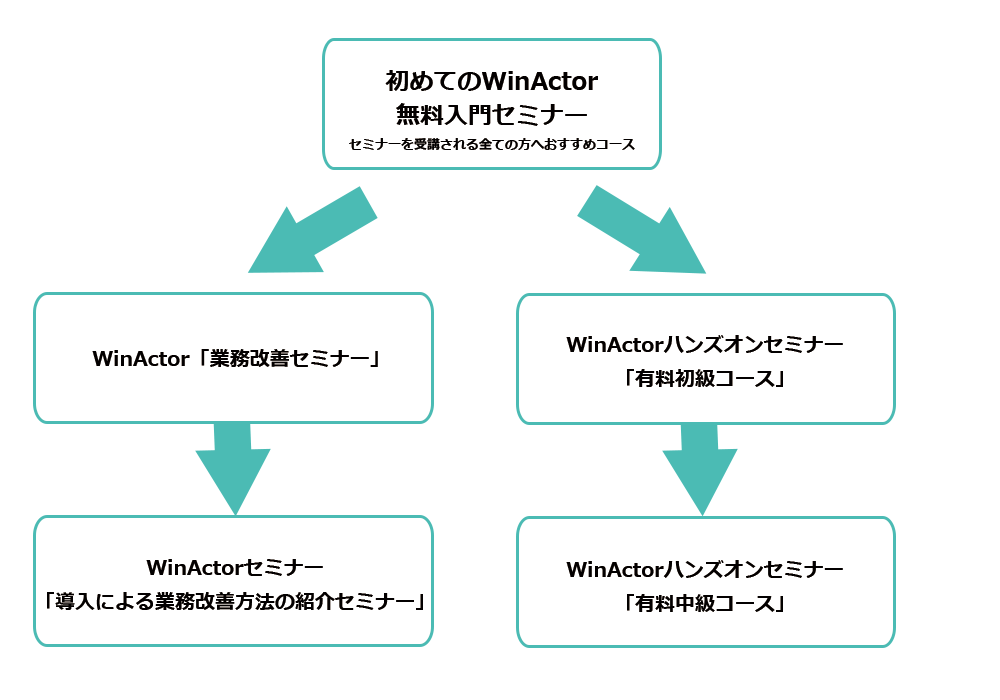
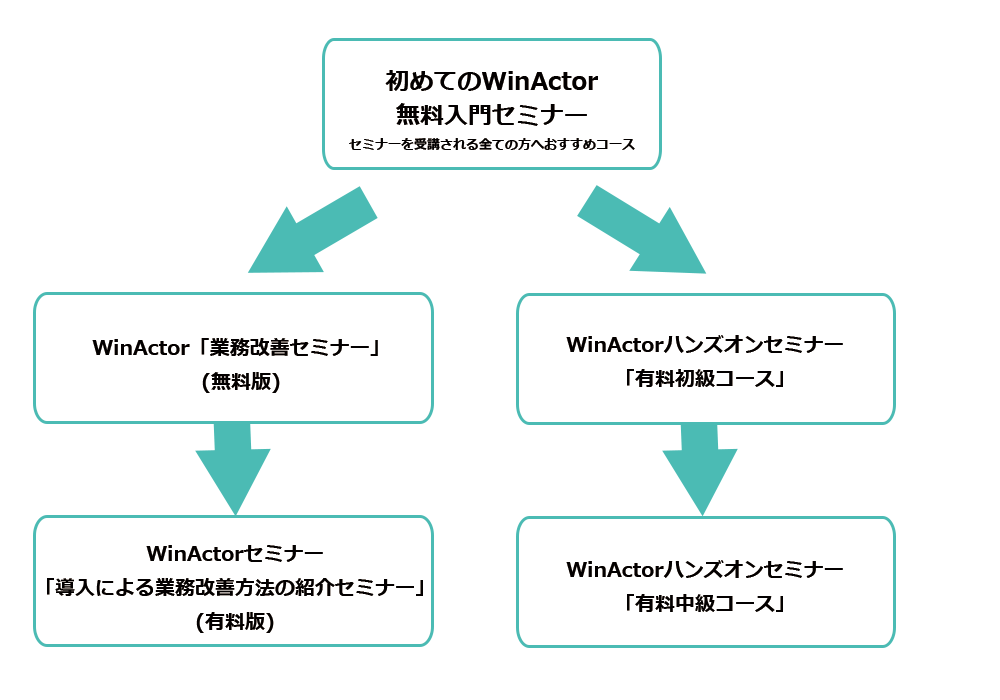
セミナー名変更、PC貸出要否項目の追加

Changed region(s): [[0.031, 0.78, 0.434, 0.9], [0.093, 0.48, 0.372, 0.57]]

diff --git a/src/winactor/form/seminar_form/index.html b/src/winactor/form/seminar_form/index.html
@@ -31,8 +31,14 @@ title:      "WinActorセミナーお申込み"
                   </div>
                   <div class="cell-sm-6">
                     <div class="form-wrap form-wrap-validation">
-                      <label class="form-label-outside" for="form-1-name">参加者名</label>
-                      <input class="form-input" id="form-1-name" type="text" name="name" data-constraints="@Required"/ required>
+                      <label class="form-label-outside" for="form-1-name1">姓</label>
+                      <input class="form-input" id="form-1-name1" type="text" name="name1" data-constraints="@Required"/ required>
+                    </div>
+                  </div>
+                  <div class="cell-sm-6">
+                    <div class="form-wrap form-wrap-validation">
+                      <label class="form-label-outside" for="form-1-name2">名</label>
+                      <input class="form-input" id="form-1-name2" type="text" name="name2" data-constraints="@Required"/ required>
                     </div>
                   </div>
                   <div class="cell-sm-6">
@@ -81,10 +87,10 @@ title:      "WinActorセミナーお申込み"
 		                  <!--<option value="2018年5月29日(火)　自動化ツール導入による業務改善方法紹介セミナー 無償版">2018年5月29日(火)　自動化ツール導入による業務改善方法紹介セミナー 無償版</option>-->
 		                  <!--<option value="2018年5月31日(木)　自動化ツール導入による業務改善方法紹介セミナー 有償実践版">2018年5月31日(木)　自動化ツール導入による業務改善方法紹介セミナー 有償実践版</option>-->
 		                  <!--<option value="2018年6月5日(火)　無償入門コース">2018年6月5日(火)　無償入門コース</option>-->
-		                  <option value="2018年6月14日(木)　WinActorセミナー「導入による業務改善方法紹介のセミナー」">2018年6月14日(木)　WinActorセミナー「導入による業務改善方法紹介のセミナー」</option>
+		                  <option value="2018年6月14日(木)　WinActorセミナー「導入による業務改善方法紹介のセミナー」(有料版)">2018年6月14日(木)　WinActorセミナー「導入による業務改善方法紹介のセミナー」(有料版)</option>
 		                  <!--<option value="2018年6月19日(火)　初めてのWinActor無料入門セミナー">2018年6月19日(火)　初めてのWinActor無料入門セミナー</option>-->
 		                  <option value="2018年6月21日(木)　WinActorハンズオンセミナー「有料初級コース」">2018年6月21日(木)　WinActorハンズオンセミナー「有料初級コース」</option>
-		                  <option value="2018年6月26日(火)　WinActor「業務改善セミナー」">2018年6月26日(火)　WinActor「業務改善セミナー」</option>
+		                  <option value="2018年6月26日(火)　WinActor「業務改善セミナー」(無料版)">2018年6月26日(火)　WinActor「業務改善セミナー」(無料版)</option>
 		                  <option value="2018年6月28日(木)　初めてのWinActor無料入門セミナー">2018年6月28日(木)　初めてのWinActor無料入門セミナー</option>
 		                </select>
 		              </div>
@@ -106,7 +112,16 @@ title:      "WinActorセミナーお申込み"
                       <label class="form-label-outside" for="form-1-other">その他を選択された方</label>
                       <input class="form-input" id="form-1-other" type="text" name="other" placeholder="その他：セミナーを知ったきっかけ" />
                     </div>            
-                  </div>		            
+                  </div>
+		          <div class="cell-sm-6">
+		            <div class="form-wrap form-wrap-validation">
+		                <label class="form-label-outside" for="form-1-pc">PCの貸出</label>
+		                <select class="form-control select-filter" data-placeholder="All" data-minimum-results-for-search="Infinity" name="pc" required>
+		                  <option value="希望しない">希望しない</option>
+		                  <option value="希望する">希望する</option>	                  
+		                </select>
+		              </div>
+		            </div> 	
                   <div class="cell-xs-12">
                     <div class="form-wrap form-wrap-validation">
                       <label class="form-label-outside" for="form-1-message">特記事項</label>

diff --git a/src/winactor/seminar/paying-businessimprovement.html b/src/winactor/seminar/paying-businessimprovement.html
@@ -9,7 +9,7 @@ title:      "WinActor有料セミナー「WinActor導入による業務改善方
       <!-- Breadcrumbs-->
       <section class="breadcrumbs-custom bg-image">
         <div class="shell">
-          <h1 class="heading-1 breadcrumbs-custom-title">WinActorセミナー「導入による業務改善方法の紹介セミナー」</h1>
+          <h1 class="heading-1 breadcrumbs-custom-title">WinActorセミナー「導入による業務改善方法の紹介セミナー」(有料版)</h1>
           <!--<ul class="breadcrumbs-custom-path">
             <li><a href="index.html">Home</a></li>
             <li><a href="#">Pages</a></li>
@@ -89,7 +89,7 @@ title:      "WinActor有料セミナー「WinActor導入による業務改善方
         <div class="center-shell">
           <div class="range range-xs-center">
             <div class="cell-sm-10 cell-lg-8">
-              <h2>WinActorセミナー「導入による業務改善方法の紹介セミナー」の内容</h2>
+              <h2>WinActorセミナー「導入による業務改善方法の紹介セミナー」(有料版)の内容</h2>
               <div class="table-novi table-custom-responsive">
                 <table class="table-custom table-color-header">
                   <thead>
@@ -205,7 +205,7 @@ title:      "WinActor有料セミナー「WinActor導入による業務改善方
             <div class="cell-sm-6 cell-lg-3">
               <div class="pricing-box pricing-box-xl pricing-box-novi">
                 <div class="pricing-box-header">
-                  <h4>WinActor「業務改善セミナー」</h4>
+                  <h4>WinActor「業務改善セミナー」(無料版)</h4>
                 </div>
                 <div class="pricing-box-price">
                   <div class="heading-2">無償</div>

diff --git a/src/winactor/seminar/free-businessimprovement.html b/src/winactor/seminar/free-businessimprovement.html
@@ -9,7 +9,7 @@ title:      "WinActor無償セミナー「WinActor導入による業務改善セ
       <!-- Breadcrumbs-->
       <section class="breadcrumbs-custom bg-image">
         <div class="shell">
-          <h1 class="heading-1 breadcrumbs-custom-title">WinActor「業務改善セミナー」</h1>
+          <h1 class="heading-1 breadcrumbs-custom-title">WinActor「業務改善セミナー」(無料版)</h1>
           <!--<ul class="breadcrumbs-custom-path">
             <li><a href="index.html">Home</a></li>
             <li><a href="#">Pages</a></li>
@@ -83,7 +83,7 @@ title:      "WinActor無償セミナー「WinActor導入による業務改善セ
         <div class="center-shell">
           <div class="range range-xs-center">
             <div class="cell-sm-10 cell-lg-8">
-              <h2>WinActor「業務改善セミナー」の内容</h2>
+              <h2>WinActor「業務改善セミナー」(無料版)の内容</h2>
               <div class="table-novi table-custom-responsive">
                 <table class="table-custom table-color-header">
                   <thead>
@@ -195,7 +195,7 @@ title:      "WinActor無償セミナー「WinActor導入による業務改善セ
             <div class="cell-sm-6 cell-lg-3">
               <div class="pricing-box pricing-box-xl pricing-box-novi">
                 <div class="pricing-box-header">
-                  <h4>WinActorセミナー「導入による業務改善方法の紹介セミナー」</h4>
+                  <h4>WinActorセミナー「導入による業務改善方法の紹介セミナー」(有料版)</h4>
                 </div>
                 <div class="pricing-box-price">
                   <div class="heading-2"><strike>100,000 円 / 人</strike></div>

diff --git a/src/winactor/seminar/free-gettingstarted.html b/src/winactor/seminar/free-gettingstarted.html
@@ -178,7 +178,7 @@ title:      "WinActor無料セミナー「初めてのWinActor入門セミナー
             <div class="cell-sm-6 cell-lg-3">
               <div class="pricing-box pricing-box-xl pricing-box-novi">
                 <div class="pricing-box-header">
-                  <h4>WinActor「業務改善セミナー」</h4>
+                  <h4>WinActor「業務改善セミナー」(無料版)</h4>
                 </div>
                 <div class="pricing-box-price">
                   <div class="heading-2">無償</div>
@@ -200,7 +200,7 @@ title:      "WinActor無料セミナー「初めてのWinActor入門セミナー
             <div class="cell-sm-6 cell-lg-3">
               <div class="pricing-box pricing-box-xl pricing-box-novi">
                 <div class="pricing-box-header">
-                  <h4>WinActorセミナー「導入による業務改善方法の紹介セミナー」</h4>
+                  <h4>WinActorセミナー「導入による業務改善方法の紹介セミナー」(有料版)</h4>
                 </div>
                 <div class="pricing-box-price">
                   <div class="heading-2"><strike>100,000 円 / 人</strike></div>

diff --git a/src/winactor/seminar/paying-beginner.html b/src/winactor/seminar/paying-beginner.html
@@ -177,7 +177,7 @@ title:      "WinActorハンズオンセミナー「有料初級コース」"
             <div class="cell-sm-6 cell-lg-3">
               <div class="pricing-box pricing-box-xl pricing-box-novi">
                 <div class="pricing-box-header">
-                  <h4>WinActor「業務改善セミナー」</h4>
+                  <h4>WinActor「業務改善セミナー」(無料版)</h4>
                 </div>
                 <div class="pricing-box-price">
                   <div class="heading-2">無償</div>
@@ -223,7 +223,7 @@ title:      "WinActorハンズオンセミナー「有料初級コース」"
             <div class="cell-sm-6 cell-lg-3">
               <div class="pricing-box pricing-box-xl pricing-box-novi">
                 <div class="pricing-box-header">
-                  <h4>WinActorセミナー「導入による業務改善方法の紹介セミナー」</h4>
+                  <h4>WinActorセミナー「導入による業務改善方法の紹介セミナー」(有料版)</h4>
                 </div>
                 <div class="pricing-box-price">
                   <div class="heading-2"><strike>100,000 円 / 人</strike></div>

diff --git a/src/winactor/seminar/paying-intermediate.html b/src/winactor/seminar/paying-intermediate.html
@@ -184,7 +184,7 @@ title:      "WinActorハンズオンセミナー「有料中級コース」"
             <div class="cell-sm-6 cell-lg-3">
               <div class="pricing-box pricing-box-xl pricing-box-novi">
                 <div class="pricing-box-header">
-                  <h4>WinActor「業務改善セミナー」</h4>
+                  <h4>WinActor「業務改善セミナー」(無料版)</h4>
                 </div>
                 <div class="pricing-box-price">
                   <div class="heading-2">無償</div>
@@ -230,7 +230,7 @@ title:      "WinActorハンズオンセミナー「有料中級コース」"
             <div class="cell-sm-6 cell-lg-3">
               <div class="pricing-box pricing-box-xl pricing-box-novi">
                 <div class="pricing-box-header">
-                  <h4>WinActorセミナー「導入による業務改善方法の紹介セミナー」</h4>
+                  <h4>WinActorセミナー「導入による業務改善方法の紹介セミナー」(有料版)</h4>
                 </div>
                 <div class="pricing-box-price">
                   <div class="heading-2"><strike>100,000 円 / 人</strike></div>

diff --git a/src/winactor/form/seminar_form/mailer.php b/src/winactor/form/seminar_form/mailer.php
@@ -11,7 +11,8 @@ $to                = $_ENV['TO'];
 
 //お客様情報
 $company = $_POST['company'];//会社名
-$name = $_POST['name'];//参加者名
+$name1 = $_POST['name1'];//姓
+$name2 = $_POST['name2'];//名
 $despartment = $_POST['despartment'];//部署名
 $position = $_POST['position'];//お役職
 $emailAdress = $_POST['emailAdress'];//メールアドレス
@@ -20,6 +21,7 @@ $people = $_POST['people'];//従業員数
 $seminar =$_POST['seminar'];//セミナー
 $enquete =$_POST['enquete'];//アンケート
 $other =$_POST['other'];//その他
+$pc = $_POST['pc'];//PCの貸出
 $message = $_POST['message'];//特記事項
 $check = $_POST['check'];// 個人情報の取扱
 
@@ -34,10 +36,10 @@ $email->addTo($emailAdress)->
        setFrom($from)->
        setFromName("IIMヒューマン・ソリューション株式会社")->
        setSubject("【WinActorセミナーへお申込みいただきましてありがとうございます】" )->
-       setText("$company \r\n$name 様\r\n\r\nこの度は弊社『WinActorセミナー』へお申込みいただきまして、誠にありがとうございます。\r\n受付が完了し次第、担当より折り返しご連絡させていただきます。\r\n\r\n　会社名: $company \r\n ご希望の開催日: $seminar \r\n 参加者名: $name \r\n　部署名: $despartment \r\n　お役職: $position \r\n　メールアドレス: $emailAdress \r\n　電話番号: $phone \r\n　特記事項: $message \r\n　個人情報の取扱: $check ")->
+       setText("$company \r\n$name1 $name2 様\r\n\r\nこの度は弊社『WinActorセミナー』へお申込みいただきまして、誠にありがとうございます。\r\n受付が完了し次第、担当より折り返しご連絡させていただきます。\r\n\r\n　会社名: $company \r\n ご希望の開催日: $seminar \r\n 部署名: $despartment \r\n　お役職: $position \r\n　メールアドレス: $emailAdress \r\n　電話番号: $phone \r\n　PCの貸出: $pc \r\n　特記事項: $message \r\n　個人情報の取扱: $check ")->
 
 
-       setHtml("$company <br> $name 様<br><br>この度は弊社『WinActorセミナー』へお申込みいただきまして、誠にありがとうございます。<br>受付が完了し次第、担当より折り返しご連絡させていただきます。<br><br>会社名: $company <br />ご希望の開催日： $seminar <br />参加者名: $name <br />部署名: $despartment <br />お役職: $position <br />メールアドレス: $emailAdress <br />電話番号: $phone <br />特記事項: $message <br />個人情報の取扱: $check <br />")->
+       setHtml("$company <br> $name1 $name2 様<br><br>この度は弊社『WinActorセミナー』へお申込みいただきまして、誠にありがとうございます。<br>受付が完了し次第、担当より折り返しご連絡させていただきます。<br><br>会社名: $company <br />ご希望の開催日： $seminar <br />部署名: $despartment <br />お役職: $position <br />メールアドレス: $emailAdress <br />電話番号: $phone <br />PCの貸出: $pc <br />特記事項: $message <br />個人情報の取扱: $check <br />")->
        addCategory('contact');
 
 $response = $sendgrid->send($email);
@@ -50,10 +52,10 @@ $email->addTo($to)->
        setFrom($from)->
        //setFromName("")->
        setSubject("【WinActorセミナーへのお申込みを受信しました。】" )->
-       setText("下記内容にてセミナーのお申込みを受け付けました。\r\nご担当者はご対応のほどよろしくお願いいたします。\r\n\r\n会社名: $company \r\n ご希望の開催日: $seminar\r\n 参加者名: $name\r\n　部署名: $despartment\r\n　お役職: $position\r\n　メールアドレス: $emailAdress\r\n　電話番号: $phone\r\n　特記事項: $message\r\n　従業員数: $people\r\n アンケート: $enquete \r\n その他を選んだ方: $other \r\n個人情報の取扱: $check")->
+       setText("下記内容にてセミナーのお申込みを受け付けました。\r\nご担当者はご対応のほどよろしくお願いいたします。\r\n\r\n会社名: $company \r\n ご希望の開催日: $seminar\r\n 参加者名: $name1 $name2 様\r\n　部署名: $despartment\r\n　お役職: $position\r\n　メールアドレス: $emailAdress\r\n　電話番号: $phone\r\n　PCの貸出: $pc \r\n　特記事項: $message\r\n　従業員数: $people\r\n アンケート: $enquete \r\n その他を選んだ方: $other \r\n個人情報の取扱: $check")->
 
 
-       setHtml("下記内容にてセミナーのお申込みを受け付けました。<br>ご担当者はご対応のほどよろしくお願いいたします。<br><br>会社名: $company <br /> ご希望の開催日: $seminar <br /> 参加者名: $name <br /> 部署名: $despartment <br /> お役職: $position <br /> メールアドレス: $emailAdress <br /> 電話番号: $phone <br /> 特記事項: $message <br /> 従業員数: $people <br /> アンケート: $enquete <br /> その他を選んだ方: $other <br /> 個人情報の取扱: $check <br />")->
+       setHtml("下記内容にてセミナーのお申込みを受け付けました。<br>ご担当者はご対応のほどよろしくお願いいたします。<br><br>会社名: $company <br /> ご希望の開催日: $seminar <br /> 参加者名: $name1 $name2 様<br /> 部署名: $despartment <br /> お役職: $position <br /> メールアドレス: $emailAdress <br /> 電話番号: $phone <br /> PCの貸出: $pc <br />特記事項: $message <br /> 従業員数: $people <br /> アンケート: $enquete <br /> その他を選んだ方: $other <br /> 個人情報の取扱: $check <br />")->
        addCategory('contact');
 
 $response = $sendgrid->send($email);
